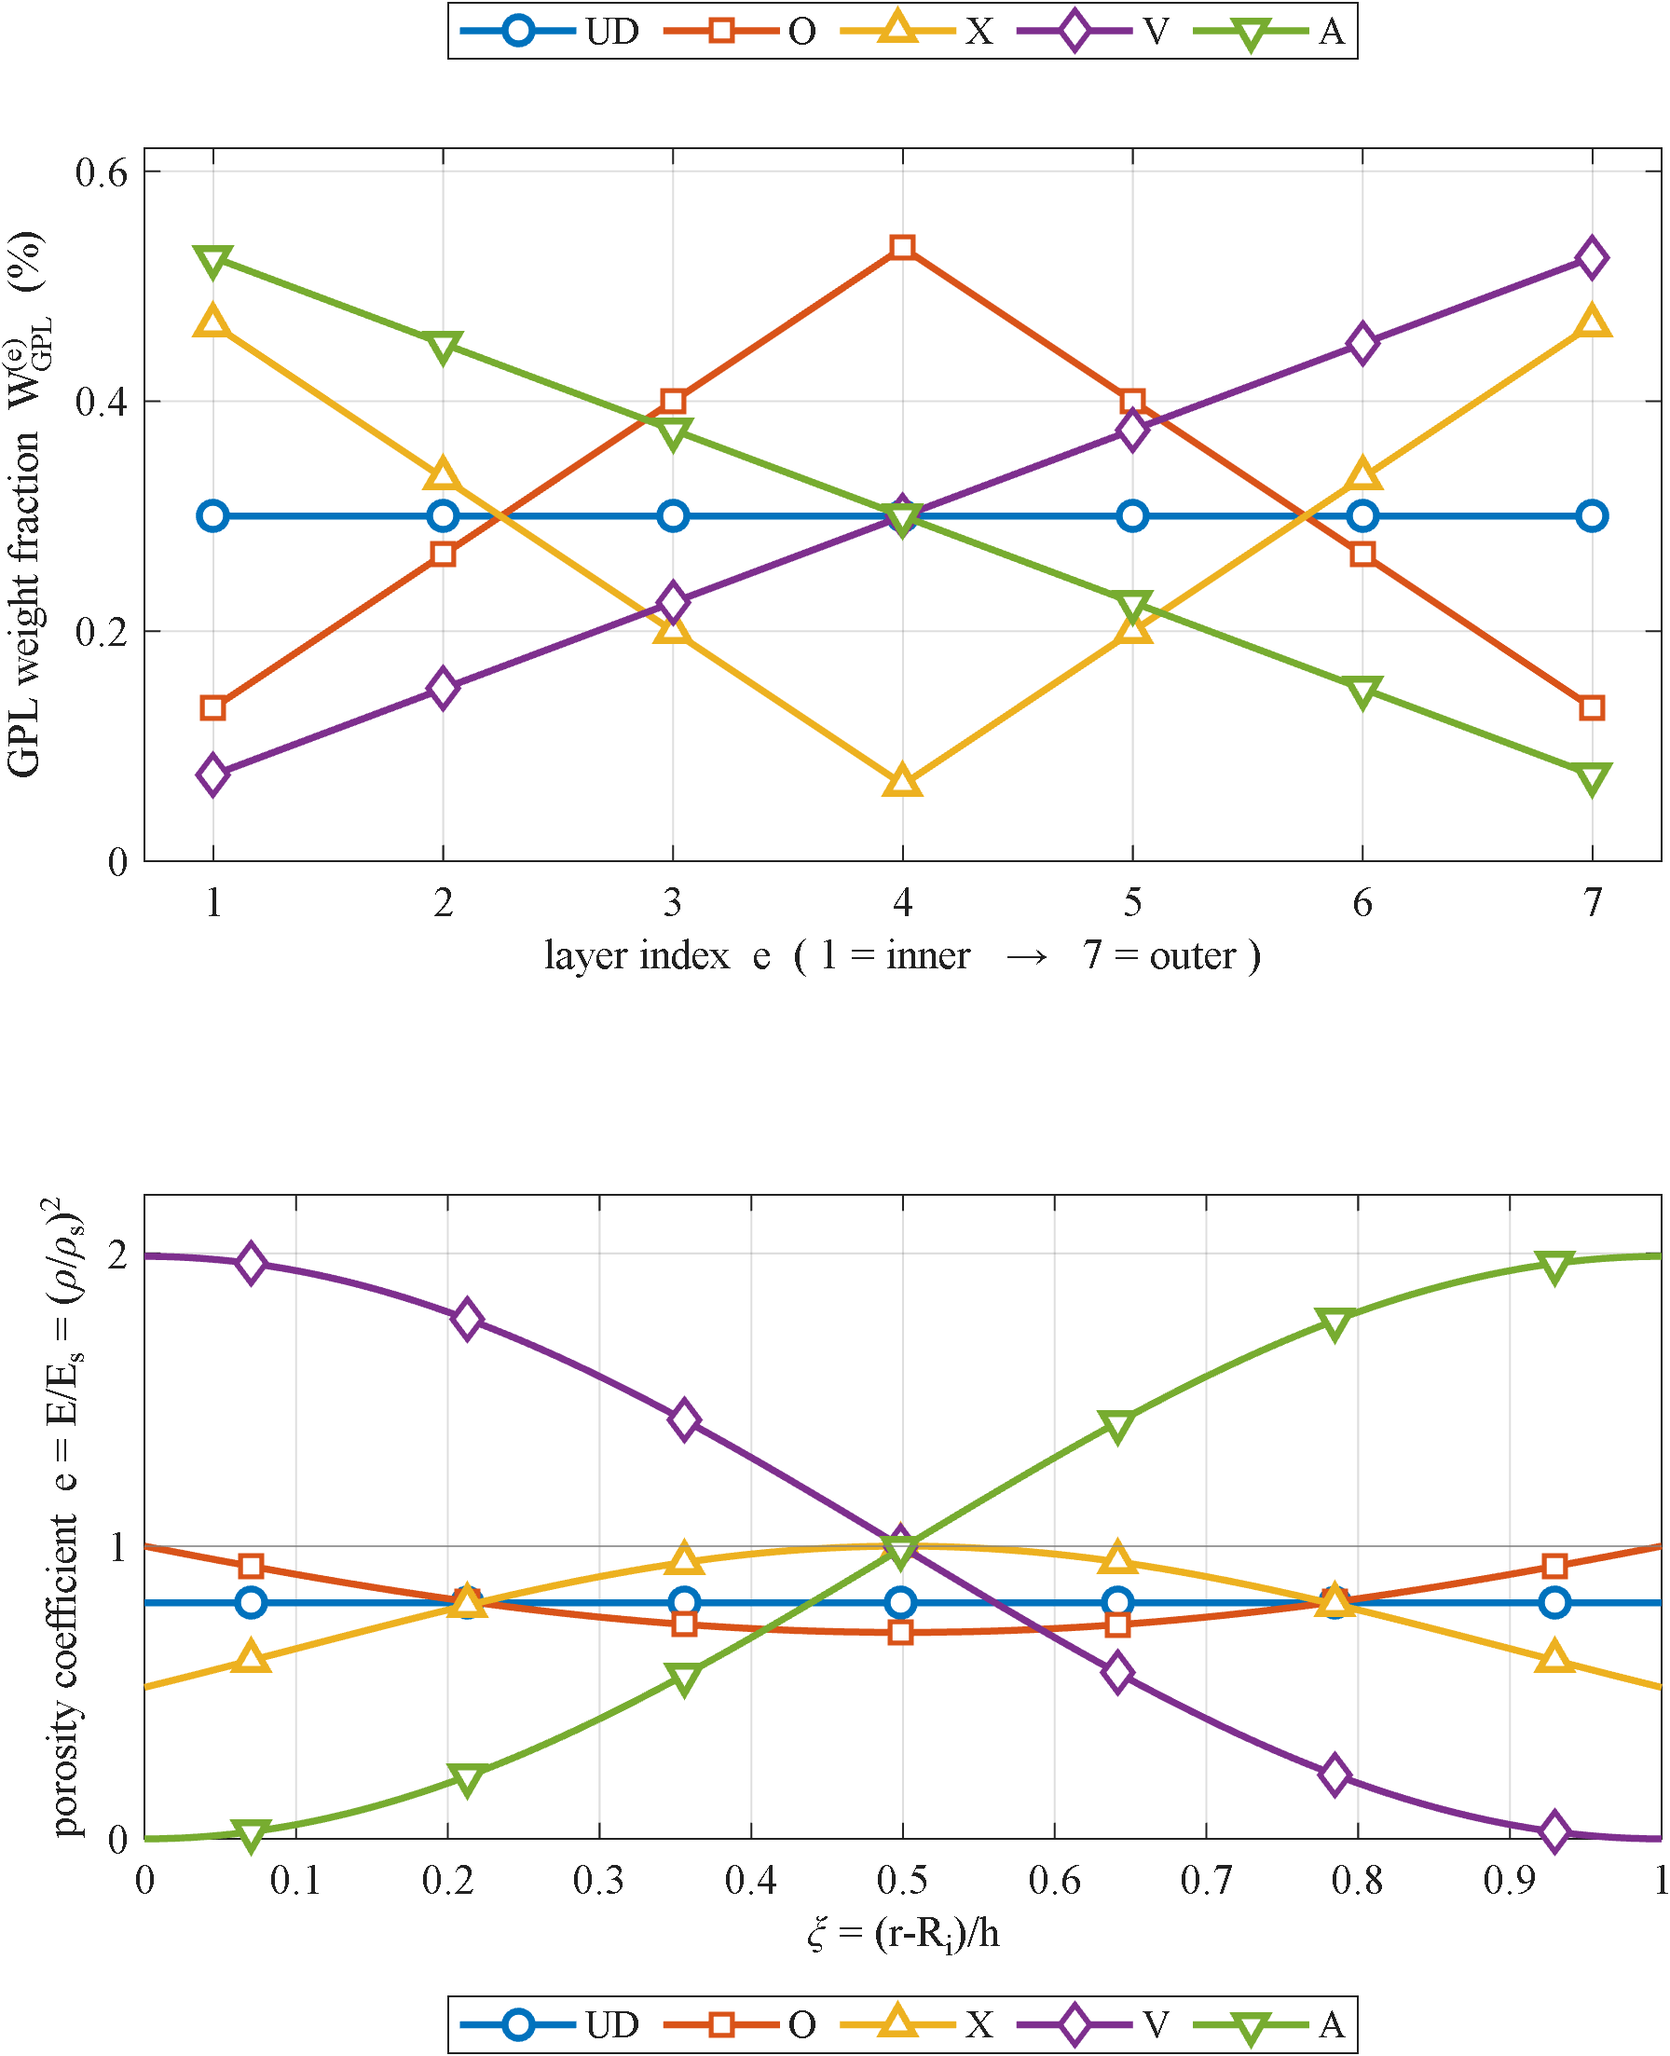
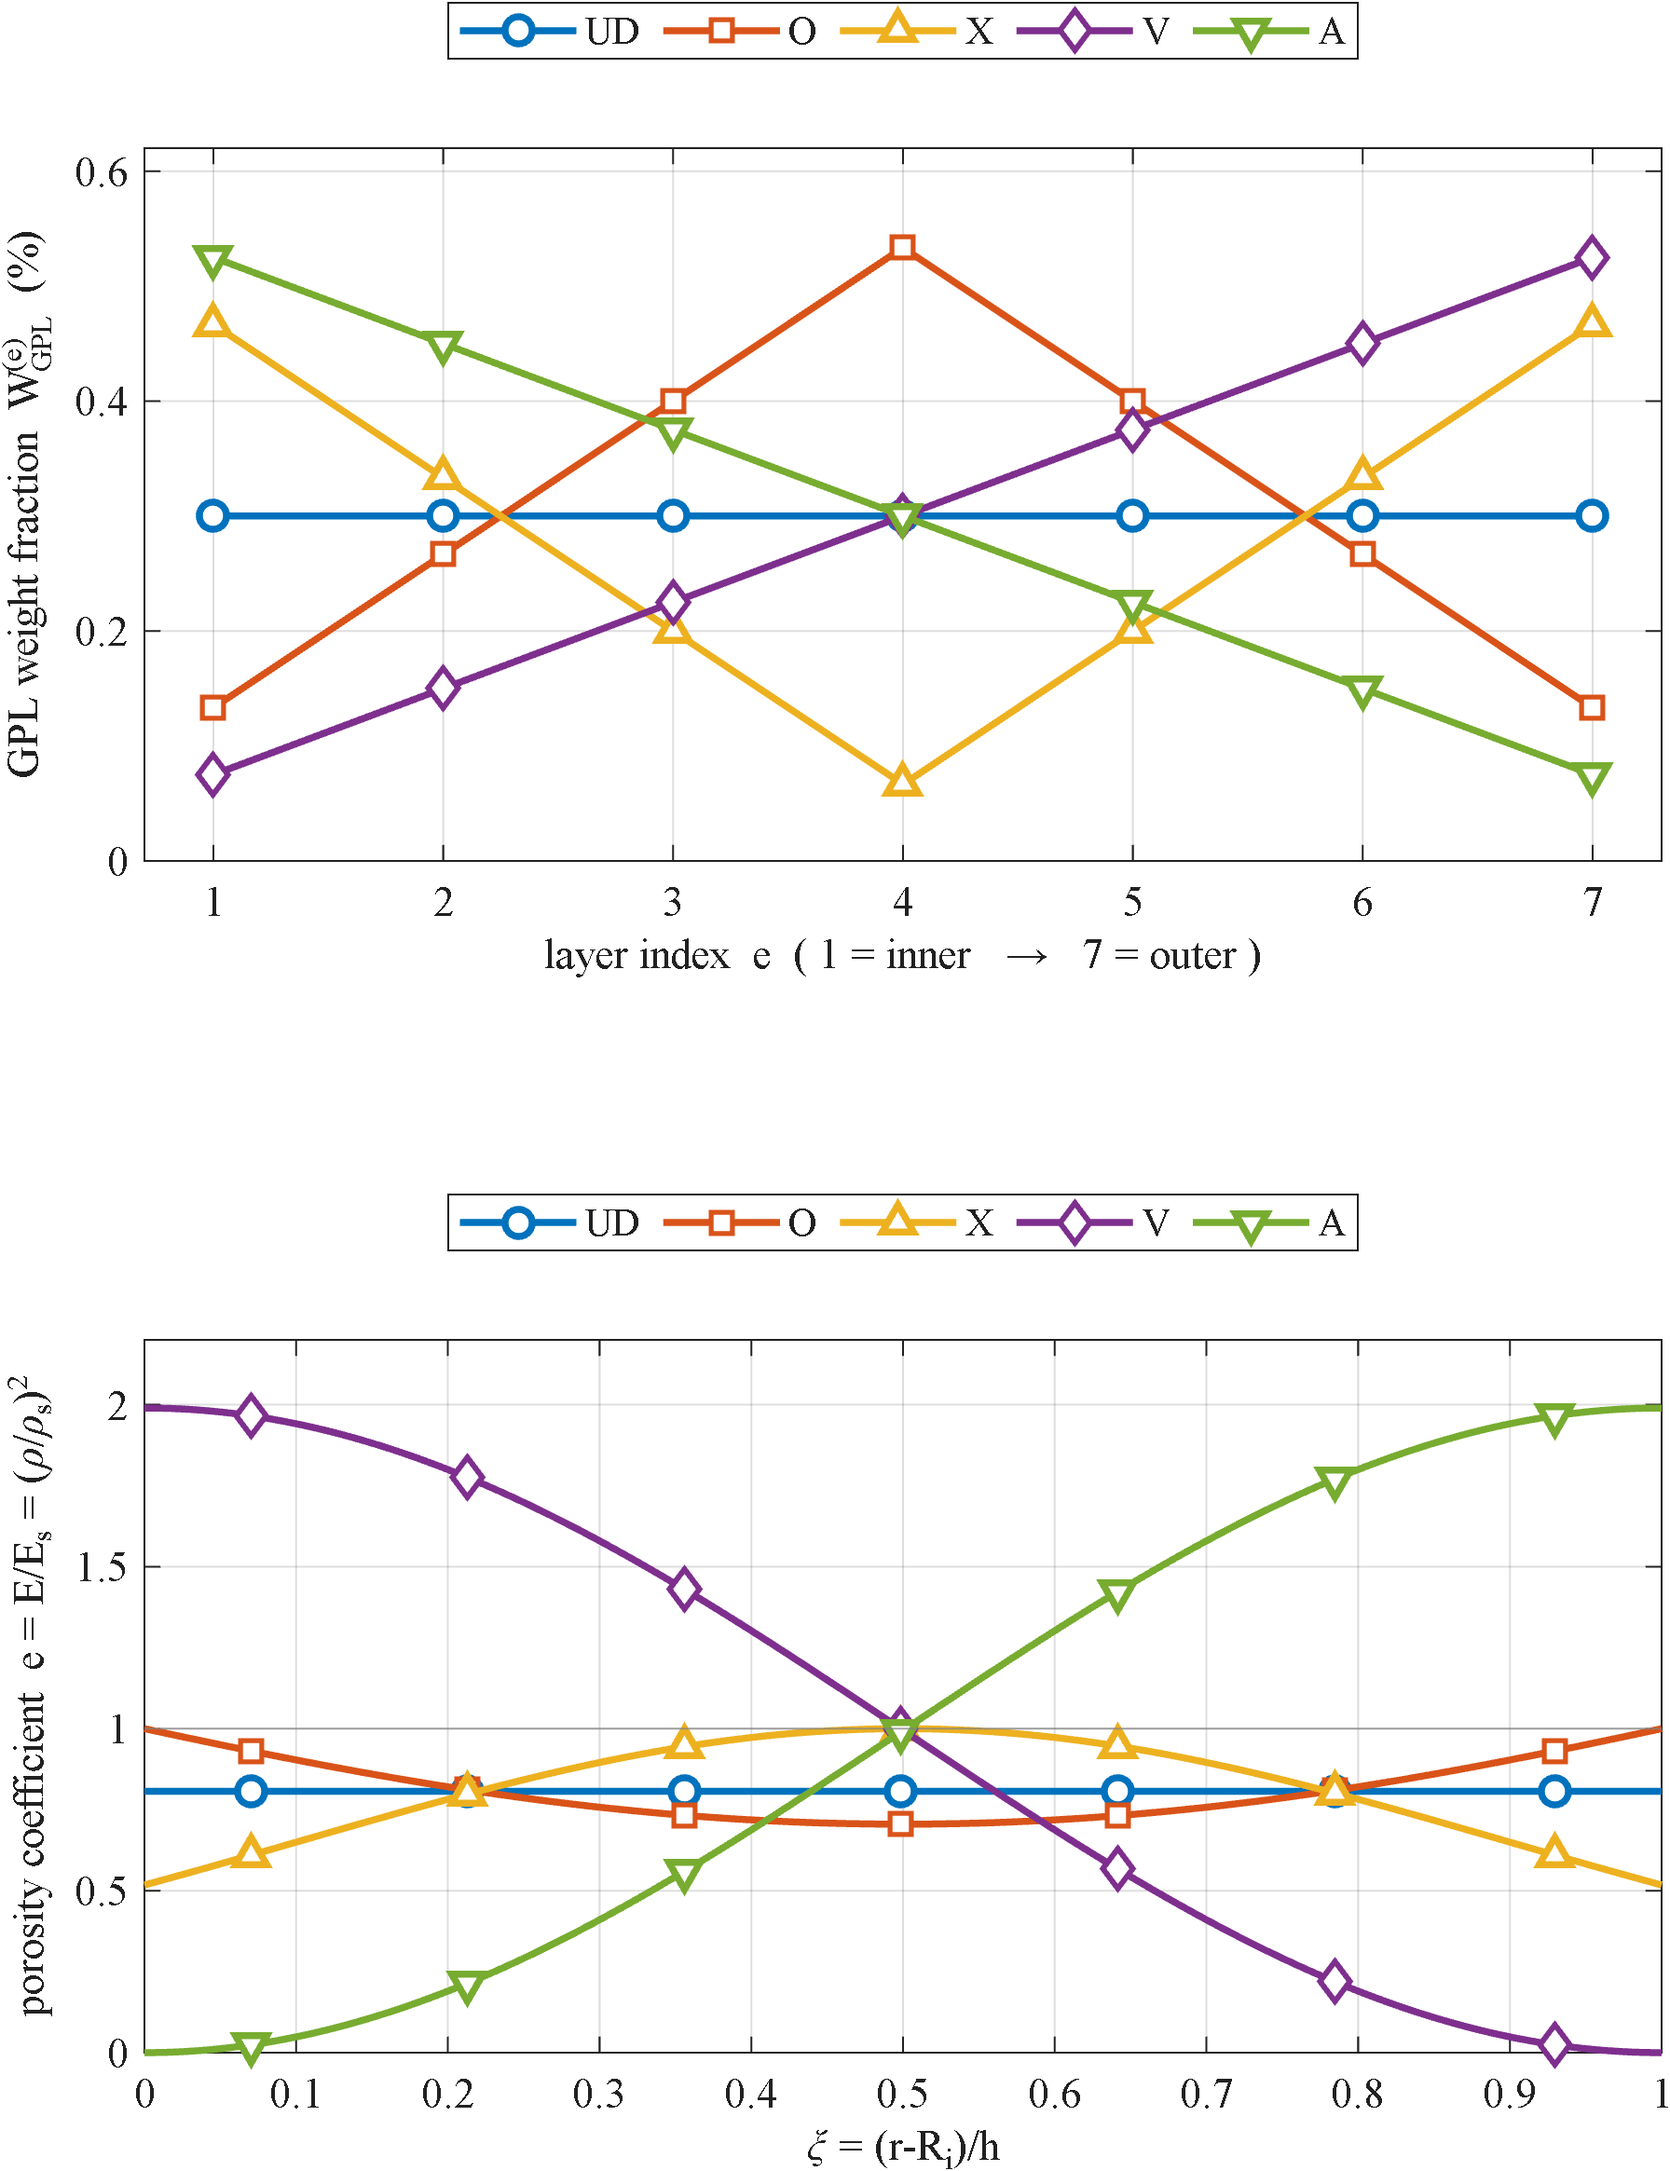
Move porosity panel legend to top, matching the GPL panel above it
Author request: both legends now sit above their respective panels
(northoutside) instead of the porosity panel's legend being below
(southoutside).

diff --git a/claude/code/catalog/claude_ch3_gpl_porosity_stacked.m b/claude/code/catalog/claude_ch3_gpl_porosity_stacked.m
@@ -69,7 +69,7 @@ end
 grid(ax2,'on'); set(ax2,'FontSize',FSZ);
 xlabel(ax2,'\xi = (r-R_i)/h','FontSize',FSZ);
 ylabel(ax2,'porosity coefficient  e = E/E_s = (\rho/\rho_s)^2','FontSize',FSZ);
-legend(ax2,pat,'Location','southoutside','Orientation','horizontal','FontSize',10);
+legend(ax2,pat,'Location','northoutside','Orientation','horizontal','FontSize',10);
 xlim(ax2,[0 1]); ylim(ax2,[0 2.2]); yline(ax2,1,'-','Color',[0.5 0.5 0.5],'HandleVisibility','off');
 
 exportgraphics(fig,fullfile(outdir,'GPL_porosity_stacked.png'),'Resolution',300);
